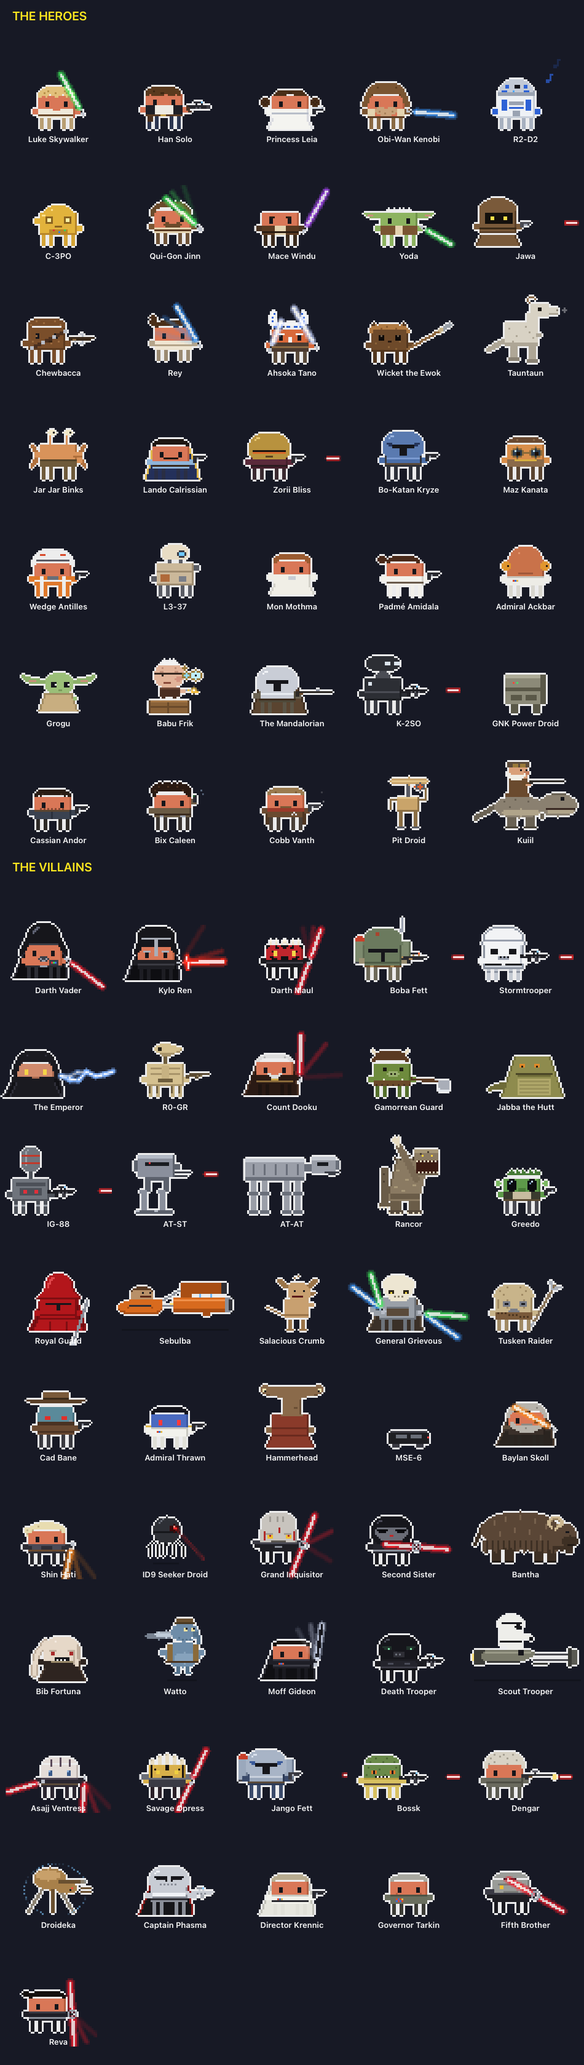
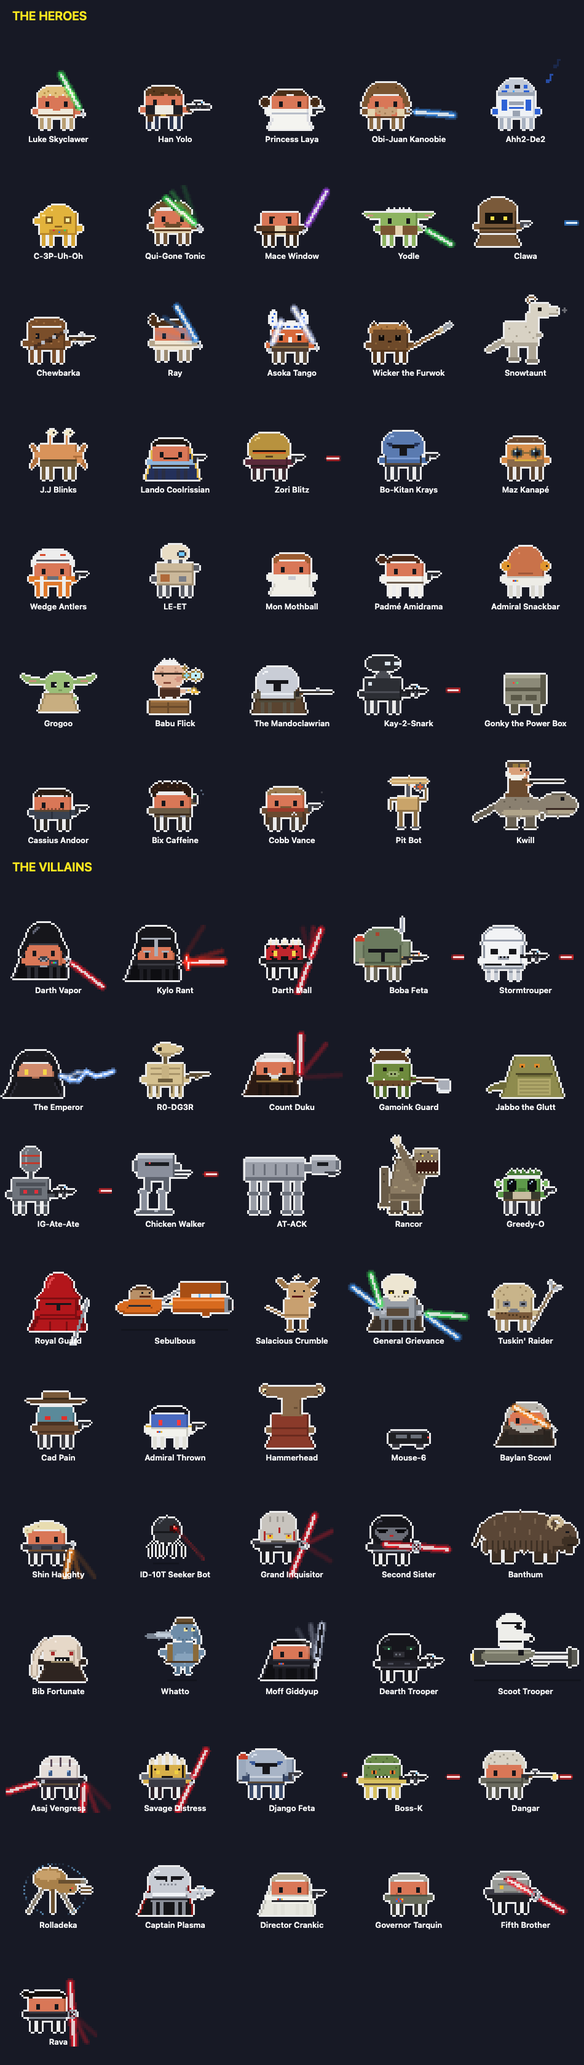
docs: re-render every picture and rewrite the README with the parody names
Rosters, place sheets, fight lines (Star Claws now from RenderDocs too),
the hover card, the screen saver, the cantina window, all four social
previews and the icon, from the renamed and redrawn code. The Night
Beacon on the social preview moves under the title, and its tagline
shrinks to fit. The README and llms.txt use the new names, and the
footer calls it an independent parody fan project.

Changed region(s): [[0.1221, 0.4026, 0.1526, 0.4336], [0.0611, 0.4026, 0.0916, 0.4336]]

diff --git a/Tools/MakeSocial/main.swift b/Tools/MakeSocial/main.swift
@@ -4,7 +4,7 @@ import CoreText
 // Renders docs/social-preview.png (1280×640, GitHub → Settings → Social preview): a comic cover in three slanted
 // panels, one per universe, each with a fight in full swing, drawn with the app's own sprite and fight-effect code:
 // Luke and Vader's sabers locked under the stars, Thor and Loki trading lightning and magic, Batman against the
-// Joker under the Bat-Signal. CLAWD CLASH runs across all three, coloured by the panel each part is in, with a sound
+// Joker under the Night Beacon. CLAWD CLASH runs across all three, coloured by the panel each part is in, with a sound
 // effect in each panel and the tagline in a caption box.
 //   swiftc Sources/App/{Pixel,Characters,Fights,Persona,Theme,Pose,Locations,Cast,Habits,Icon,Rides}.swift \
 //          Sources/App/Universes/**/*.swift Sources/Shared/*.swift Tools/MakeSocial/main.swift -o build/makesocial \
@@ -53,15 +53,19 @@ func halftone(_ r: CGRect, color: CGColor, cell: CGFloat, dot: (CGPoint) -> CGFl
     ctx.setFillColor(color); ctx.fillPath()
 }
 
-/// The bat emblem, `w` wide, centred on `c`.
-func bat(_ c: CGPoint, width w: CGFloat) -> CGPath {
-    let half: [(CGFloat, CGFloat)] = [(0, 0.10), (0.05, 0.13), (0.075, 0.27), (0.11, 0.12), (0.19, 0.12), (0.30, 0.21), (0.55, 0.29),
-                                      (0.84, 0.25), (1.0, 0.08), (0.88, 0.06), (0.80, -0.06), (0.70, -0.03), (0.60, -0.16), (0.48, -0.11),
-                                      (0.37, -0.26), (0.25, -0.17), (0.11, -0.32), (0, -0.22)]
-    let p = CGMutablePath()
-    p.addLines(between: half.map { CGPoint(x: c.x + $0.0 * w / 2, y: c.y + $0.1 * w / 2) }
-                        + half.reversed().dropFirst().dropLast().map { CGPoint(x: c.x - $0.0 * w / 2, y: c.y + $0.1 * w / 2) })
-    p.closeSubpath()
+/// A claw mark, `w` wide, centred on `c`: three slashes leaning right, tapered at both ends.
+func clawMark(_ c: CGPoint, width w: CGFloat) -> CGPath {
+    let p = CGMutablePath(), h = w * 0.62, gap = w * 0.3, thick = w * 0.1
+    for i in -1...1 {
+        let x = c.x + CGFloat(i) * gap
+        let top = CGPoint(x: x + h * 0.28, y: c.y + h / 2), bottom = CGPoint(x: x - h * 0.28, y: c.y - h / 2)
+        let mid = CGPoint(x: (top.x + bottom.x) / 2, y: (top.y + bottom.y) / 2)
+        p.move(to: top)
+        p.addLine(to: CGPoint(x: mid.x + thick / 2, y: mid.y))
+        p.addLine(to: bottom)
+        p.addLine(to: CGPoint(x: mid.x - thick / 2, y: mid.y))
+        p.closeSubpath()
+    }
     return p
 }
 
@@ -93,12 +97,12 @@ for i in 0..<3 {
         }
     }
     if i == 2 {
-        let signal = CGPoint(x: 1150, y: 560)
+        let signal = CGPoint(x: 1192, y: 392)   // under the name, over the fight
         ctx.setFillColor(hex(0xFFE36B, 0.18))
-        ctx.move(to: CGPoint(x: 1240, y: 0)); ctx.addLine(to: CGPoint(x: signal.x - 70, y: signal.y)); ctx.addLine(to: CGPoint(x: signal.x + 70, y: signal.y))
+        ctx.move(to: CGPoint(x: 1240, y: 0)); ctx.addLine(to: CGPoint(x: signal.x - 58, y: signal.y)); ctx.addLine(to: CGPoint(x: signal.x + 58, y: signal.y))
         ctx.closePath(); ctx.fillPath()
-        ctx.setFillColor(hex(0xFFE36B, 0.92)); ctx.fillEllipse(in: CGRect(x: signal.x - 70, y: signal.y - 48, width: 140, height: 96))
-        ctx.addPath(bat(signal, width: 116)); ctx.setFillColor(inkColor); ctx.fillPath()
+        ctx.setFillColor(hex(0xFFE36B, 0.92)); ctx.fillEllipse(in: CGRect(x: signal.x - 58, y: signal.y - 40, width: 116, height: 80))
+        ctx.addPath(clawMark(signal, width: 92)); ctx.setFillColor(inkColor); ctx.fillPath()
     }
     // The ground each fight stands on.
     ctx.setFillColor(hex(floors[i])); ctx.fill(CGRect(x: 0, y: 0, width: W, height: ground))
@@ -213,8 +217,8 @@ burst(CGPoint(x: 205, y: 352), r: 50, color: 0xFFE14D, seed: 11)
 word("VWOOM!", at: CGPoint(x: 205, y: 352), width: 100, height: 42, angle: 0.12, depth: 4, faces: [(0xFFFFFF, 0xFF6A5A)])
 burst(CGPoint(x: 640, y: 358), r: 54, color: 0x7FD0FF, seed: 31)
 word("KRAKOOM!", at: CGPoint(x: 640, y: 358), width: 120, height: 42, angle: -0.1, depth: 4, faces: [(0xFFF6B0, 0xFFC21A)])
-burst(CGPoint(x: 1070, y: 352), r: 48, color: 0xFF5A8A, seed: 51)
-word("BLAM!", at: CGPoint(x: 1070, y: 352), width: 92, height: 42, angle: 0.1, depth: 4, faces: [(0xFFFFFF, 0xC8F06A)])
+burst(CGPoint(x: 1040, y: 352), r: 48, color: 0xFF5A8A, seed: 51)
+word("BLAM!", at: CGPoint(x: 1040, y: 352), width: 92, height: 42, angle: 0.1, depth: 4, faces: [(0xFFFFFF, 0xC8F06A)])
 
 // The name, across all three panels.
 word("CLAWD CLASH", at: CGPoint(x: 640, y: 522), width: 1060, height: 138, angle: 0.035, depth: 12,
@@ -229,9 +233,15 @@ for i in 1...2 {
 }
 
 // The tagline in a caption box, along the bottom.
-let tagline = "Your AI coding sessions as a pixel-art Star Wars, Marvel or DC battle"
-let font = NSFont(name: "Futura-Bold", size: 25) ?? .boldSystemFont(ofSize: 25)
-let text = NSAttributedString(string: tagline.uppercased(), attributes: [.font: font, .foregroundColor: NSColor(cgColor: inkColor)!, .kern: 1])
+let tagline = "Your AI coding sessions as a pixel-art Star Claws, Clawvel or Detective Claws battle"
+/// The tagline at the largest size (up to 25 pt) that fits the cover with a margin.
+func taglineText(_ size: CGFloat) -> NSAttributedString {
+    let font = NSFont(name: "Futura-Bold", size: size) ?? .boldSystemFont(ofSize: size)
+    return NSAttributedString(string: tagline.uppercased(), attributes: [.font: font, .foregroundColor: NSColor(cgColor: inkColor)!, .kern: 1])
+}
+var tagSize: CGFloat = 25
+while tagSize > 12 && taglineText(tagSize).size().width > W - 140 { tagSize -= 1 }
+let text = taglineText(tagSize)
 let ts = text.size()
 let box = CGRect(x: (W - ts.width) / 2 - 22, y: 26, width: ts.width + 44, height: ts.height + 18)
 ctx.saveGState()

diff --git a/Tools/RenderDocs/main.swift b/Tools/RenderDocs/main.swift
@@ -1,6 +1,7 @@
 import AppKit
 
 // Renders the README's roster and locations images with the app's own sprite code.
+// Sessions are labelled with their character's name (as the app does with no project), agents with their task.
 //   swiftc -swift-version 5 Sources/App/{Pixel,Characters,Fights,Persona,Theme,Pose,Locations,Cast,Habits,Icon,Rides}.swift \
 //          Sources/App/Universes/**/*.swift Sources/Shared/*.swift \
 //          Tools/RenderDocs/main.swift -o build/renderdocs && build/renderdocs docs
@@ -91,6 +92,17 @@ let marvelLineup: [[Extra]] = [
      Extra(who: .villain(.redSkull), leader: true, label: "Red Skull", x: 352, facing: -1, role: .shoot(offset: 0))],
     [Extra(who: .hero(.groot), leader: false, label: "Run the test suite", x: 388, facing: 1, role: .cheer)],
 ]
+let starWarsLineup: [[Extra]] = [
+    [Extra(who: .villain(SWVillain.boba), leader: true, label: "", x: 30, facing: 1, role: .shoot(offset: 0)),
+     Extra(who: .hero(SWHero.han), leader: false, label: "Review Overlay.swift", x: 92, facing: -1, role: .shoot(offset: blasterPeriod / 2))],
+    [Extra(who: .hero(SWHero.leia), leader: false, label: "Run the test suite", x: 132, facing: 1, role: .shoot(offset: 0)),
+     Extra(who: .villain(SWVillain.trooper), leader: false, label: "Write changelog", x: 182, facing: -1, role: .shoot(offset: blasterPeriod / 2))],
+    [Extra(who: .hero(SWHero.luke), leader: false, label: "Find hook events", x: 214, facing: 1, role: .duel),
+     Extra(who: .villain(SWVillain.maul), leader: false, label: "Audit permissions", x: 244, facing: -1, role: .duel)],
+    [Extra(who: .hero(SWHero.obiwan), leader: true, label: "", x: 290, facing: 1, role: .duel),
+     Extra(who: .villain(SWVillain.vader), leader: true, label: "", x: 347, facing: -1, role: .duel)],
+    [Extra(who: .hero(SWHero.r2d2), leader: false, label: "Plan the refactor", x: 388, facing: 1, role: .cheer)],
+]
 let dcLineup: [[Extra]] = [
     [Extra(who: .villain(DCVillain.darkseid), leader: true, label: "Darkseid", x: 30, facing: 1, role: .zap),
      Extra(who: .hero(DCHero.superman), leader: true, label: "Superman", x: 98, facing: -1, role: .hit, up: 10)],
@@ -117,7 +129,7 @@ let desktop = canvas(2600, 400) { ctx in
                                            height: CGFloat(Sprite.height) * S * k))
         // Its label above the head, as the app boxes it: sessions dark grey, agents dark blue.
         let font = e.leader ? NSFont.monospacedSystemFont(ofSize: 20, weight: .bold) : NSFont.monospacedSystemFont(ofSize: 17, weight: .semibold)
-        let text = NSAttributedString(string: e.label, attributes: [.font: font, .foregroundColor: NSColor.white])
+        let text = NSAttributedString(string: e.leader ? e.who.name : e.label, attributes: [.font: font, .foregroundColor: NSColor.white])
         let ts = text.size()
         let top = y + CGFloat(Sprite.height - e.who.drawnTop()) * S * k + (e.leader ? 16 : 10)
         var box = CGRect(x: CGFloat(e.x) * S - ts.width / 2 - 10, y: top, width: ts.width + 20, height: ts.height + 8)
@@ -153,6 +165,7 @@ let desktop = canvas(2600, 400) { ctx in
 save(desktop, file)
 print("wrote \(out)/\(file)")
 }
+desktop(starWarsLineup, file: "desktop-starwars.png")
 desktop(marvelLineup, file: "desktop-marvel.png")
 desktop(dcLineup, file: "desktop-dc.png")
 
@@ -242,15 +255,15 @@ let social = canvas(1280, 640) { ctx in
 save(social, file)
 }
 // Clawd Clash's own (social-preview.png) is a comic cover of its own: Tools/MakeSocial.
-socialPreview(title: "CLAWD WARS", subtitle: "Your Claude Code sessions as a pixel-art Star Wars battle on your desktop",
+socialPreview(title: "CLAWD WARS", subtitle: "Your Claude Code sessions as a pixel-art Star Claws battle on your desktop",
               groups: [[.hero(SWHero.luke), .hero(SWHero.han), .hero(SWHero.leia), .hero(SWHero.yoda),
                         .villain(SWVillain.vader), .villain(SWVillain.boba), .villain(SWVillain.kylo), .villain(SWVillain.trooper)]],
               file: "social-preview-starwars.png")
-socialPreview(title: "AVENGERS: CLAWD WARS", subtitle: "Your Claude Code sessions as a pixel-art Marvel battle on your desktop",
+socialPreview(title: "CLAWVENGERS: CLAWD WARS", subtitle: "Your Claude Code sessions as a pixel-art Clawvel battle on your desktop",
               groups: [[.hero(MarvelHero.thor), .hero(MarvelHero.spiderMan), .hero(MarvelHero.captainAmerica), .hero(MarvelHero.ironMan),
                         .villain(MarvelVillain.thanos), .villain(MarvelVillain.loki), .villain(MarvelVillain.greenGoblin), .villain(MarvelVillain.venom)]],
               file: "social-preview-marvel.png")
-socialPreview(title: "JUSTICE LEAGUE: CLAWD WARS", subtitle: "Your Claude Code sessions as a pixel-art DC battle on your desktop",
+socialPreview(title: "CLAWSTICE LEAGUE: CLAWD WARS", subtitle: "Your Claude Code sessions as a pixel-art Detective Claws battle on your desktop",
               groups: [[.hero(DCHero.superman), .hero(DCHero.batman), .hero(DCHero.wonderWoman), .hero(DCHero.flash),
                         .villain(DCVillain.joker), .villain(DCVillain.lexLuthor), .villain(DCVillain.darkseid), .villain(DCVillain.harleyQuinn)]],
               file: "social-preview-dc.png")

diff --git a/Tools/MakeIcon/main.swift b/Tools/MakeIcon/main.swift
@@ -55,19 +55,23 @@ func halftone(_ r: CGRect, color: CGColor, cell: CGFloat, dot: (CGPoint) -> CGFl
     ctx.setFillColor(color); ctx.fillPath()
 }
 
-/// The bat emblem, `w` wide, centred on `c`: the right half from between the ears round the wing to the tail, mirrored.
-func bat(_ c: CGPoint, width w: CGFloat) -> CGPath {
-    let half: [(CGFloat, CGFloat)] = [(0, 0.10), (0.05, 0.13), (0.075, 0.27), (0.11, 0.12), (0.19, 0.12), (0.30, 0.21), (0.55, 0.29),
-                                      (0.84, 0.25), (1.0, 0.08), (0.88, 0.06), (0.80, -0.06), (0.70, -0.03), (0.60, -0.16), (0.48, -0.11),
-                                      (0.37, -0.26), (0.25, -0.17), (0.11, -0.32), (0, -0.22)]
-    let p = CGMutablePath()
-    p.addLines(between: half.map { CGPoint(x: c.x + $0.0 * w / 2, y: c.y + $0.1 * w / 2) }
-                        + half.reversed().dropFirst().dropLast().map { CGPoint(x: c.x - $0.0 * w / 2, y: c.y + $0.1 * w / 2) })
-    p.closeSubpath()
+/// A claw mark, `w` wide, centred on `c`: three slashes leaning right, tapered at both ends.
+func clawMark(_ c: CGPoint, width w: CGFloat) -> CGPath {
+    let p = CGMutablePath(), h = w * 0.62, gap = w * 0.3, thick = w * 0.1
+    for i in -1...1 {
+        let x = c.x + CGFloat(i) * gap
+        let top = CGPoint(x: x + h * 0.28, y: c.y + h / 2), bottom = CGPoint(x: x - h * 0.28, y: c.y - h / 2)
+        let mid = CGPoint(x: (top.x + bottom.x) / 2, y: (top.y + bottom.y) / 2)
+        p.move(to: top)
+        p.addLine(to: CGPoint(x: mid.x + thick / 2, y: mid.y))
+        p.addLine(to: bottom)
+        p.addLine(to: CGPoint(x: mid.x - thick / 2, y: mid.y))
+        p.closeSubpath()
+    }
     return p
 }
 
-// Each panel's sky: Sith red with stars, Marvel red into blue, Gotham's night blue under the Bat-Signal; rays from the
+// Each panel's sky: Sith red with stars, Marvel red into blue, Gotham's night blue under the Night Beacon; rays from the
 // middle and halftone dots, heavier towards the bottom.
 let skies: [(UInt32, UInt32)] = [(0x6E0C1A, 0x1A0610), (0xB81A2A, 0x0E2A6E), (0x2B3F7A, 0x0A1028)]
 let middle = CGPoint(x: 512, y: 520)
@@ -96,7 +100,7 @@ for i in 0..<3 {
     if i == 2 {
         let signal = CGPoint(x: 800, y: 800)
         ctx.setFillColor(hex(0xFFE36B, 0.9)); ctx.fillEllipse(in: CGRect(x: signal.x - 85, y: signal.y - 60, width: 170, height: 120))
-        ctx.addPath(bat(signal, width: 140)); ctx.setFillColor(inkColor); ctx.fillPath()
+        ctx.addPath(clawMark(signal, width: 140)); ctx.setFillColor(inkColor); ctx.fillPath()
     }
     ctx.restoreGState()
 }

diff --git a/README.md b/README.md
@@ -1,11 +1,11 @@
 <p align="center">
-  <img src="Resources/AppIcon.png" width="180" alt="Clawd Clash icon: a comic cover in three panels, Star Wars, Marvel and DC, with CLAWD CLASH across them, Spider-Man hanging on his web, Darth Vader raising his saber and Batman under the Bat-Signal">
+  <img src="Resources/AppIcon.png" width="180" alt="Clawd Clash icon: a comic cover in three panels, one per universe, with CLAWD CLASH across them, Spider-Clawd hanging on his web, Darth Vapor raising his saber and Batclaw under the Night Beacon">
 </p>
 
 <h1 align="center">Clawd Clash</h1>
 
 <p align="center">
-  <b>Your Claude Code, Codex, Qwen Code, Gemini CLI and GitHub Copilot CLI sessions, as a pixel-art Star Wars, Marvel or DC battle on your desktop.</b><br>
+  <b>Your Claude Code, Codex, Qwen Code, Gemini CLI and GitHub Copilot CLI sessions, as a pixel-art Star Claws, Clawvel or Detective Claws battle on your desktop.</b><br>
   Every session is a hero or a villain, every subagent joins in, and they fight while they work.
 </p>
 
@@ -18,12 +18,12 @@
 </p>
 
 <p align="center">
-  <img src="docs/social-preview.png" alt="A comic cover in three panels: Luke and Vader duelling, Thor against Loki, Batman against the Joker, under CLAWD CLASH" width="760">
+  <img src="docs/social-preview.png" alt="A comic cover in three panels: Luke Skyclawer and Darth Vapor duelling, Thorr against Lokee, Batclaw against the Jester, under CLAWD CLASH" width="760">
 </p>
 
-Clawd Clash is one app with three universes: **Star Wars** (formerly [Clawd Wars](https://github.com/rodclemen/clawd-wars)), **Marvel** (formerly [Avengers: Clawd Wars](https://github.com/rodclemen/avengers-clawd-wars)) and **DC** (formerly [Justice League: Clawd Wars](https://github.com/rodclemen/justice-league-clawd-wars)). Pick one in Settings; a scene never mixes them. Those three pages show each universe on its own; this one is the app.
+Clawd Clash is one app with three universes: **Star Claws** (formerly [Clawd Wars](https://github.com/rodclemen/clawd-wars)), **Clawvel** (formerly [Clawvengers: Clawd Wars](https://github.com/rodclemen/avengers-clawd-wars)) and **Detective Claws** (formerly [Clawstice League: Clawd Wars](https://github.com/rodclemen/justice-league-clawd-wars)). Pick one in Settings; a scene never mixes them. Those three pages show each universe on its own; this one is the app.
 
-| Star Wars | Marvel | DC |
+| Star Claws | Clawvel | Detective Claws |
 |---|---|---|
 | https://github.com/user-attachments/assets/c0b65192-c2ae-4b2e-9c23-d50a2c157aef | https://github.com/user-attachments/assets/1f70859b-9230-4afb-9c8d-1121822be8e7 | https://github.com/user-attachments/assets/0396abbc-5ddd-4345-8e27-f33c2e79d616 |
 
@@ -38,7 +38,7 @@ Clawd Clash is one app with three universes: **Star Wars** (formerly [Clawd Wars
 - [Window mode and the screen saver](#window-mode-and-the-screen-saver)
 - [The little things](#the-little-things)
 - [Install](#install)
-- [Coming from Clawd Wars, Avengers or Justice League](#coming-from-clawd-wars-avengers-or-justice-league)
+- [Coming from Clawd Wars, Clawvengers or Clawstice League](#coming-from-clawd-wars-clawvengers-or-clawstice-league)
 - [How it works](#how-it-works)
 - [Uninstall](#uninstall)
 - [Contributing](#contributing)
@@ -48,47 +48,47 @@ Clawd Clash is one app with three universes: **Star Wars** (formerly [Clawd Wars
 
 You run Claude Code in three terminals. One is thinking, one is waiting for your permission, one finished ten minutes ago and you didn't notice. Clawd Clash tells you at a glance, without switching windows.
 
-- **Working?** Your Claude fights: a lightsaber, a shield, repulsors, heat vision, a spell.
+- **Working?** Your Claude fights: a laser sword, a shield, repulsors, heat vision, a spell.
 - **Thinking?** A thought bubble.
 - **Needs you?** A red `!`, and if you ignore it for a minute, it starts jumping up and down. It keeps asking until you answer; press Esc instead and it stands down.
-- **Done and idle?** It stops fighting and passes the time with habits of its own, and most characters have a signature move (R2-D2 plays Leia's message, Han spins his blaster, Iron Man flips his faceplate up, Thanos snaps, Batman's batarang loops back to his hand). After a couple of minutes it sits down; after five it's asleep (zZz).
+- **Done and idle?** It stops fighting and passes the time with habits of its own, and most characters have a signature move (Ahh2-De2 plays Princess Laya's message, Han Yolo spins his blaster, Iron Clawd flips his faceplate up, Thanoz snaps, Batclaw's clawarang loops back to his hand). After a couple of minutes it sits down; after five it's asleep (zZz).
 - **Spawned subagents?** They walk (or fly, or swing) in one by one, each labelled with what it's doing, and leave when they finish.
 - **Hover** any character for the details; **click** it to jump straight to that session's terminal or editor tab.
 
 <p align="center">
-  <img src="docs/desktop-starwars.png" alt="Star Wars sessions and agents fighting along the bottom of the screen"><br>
-  <img src="docs/desktop-marvel.png" alt="Marvel sessions and agents fighting along the bottom of the screen"><br>
-  <img src="docs/desktop-dc.png" alt="DC sessions and agents fighting along the bottom of the screen">
+  <img src="docs/desktop-starwars.png" alt="Star Claws sessions and agents fighting along the bottom of the screen"><br>
+  <img src="docs/desktop-marvel.png" alt="Clawvel sessions and agents fighting along the bottom of the screen"><br>
+  <img src="docs/desktop-dc.png" alt="Detective Claws sessions and agents fighting along the bottom of the screen">
 </p>
 
 ## Three universes
 
-Choose in **Settings… → Universe**: **Star Wars**, **Marvel**, **DC** or **Random**. Switching recasts everyone on screen (each character becomes the one in the same place in the other cast, on the same side), moves the scene to one of the new universe's places, and changes the menu bar icon (Vader's helmet, Captain America's shield or Superman's S). In the window, the whole window changes over with the new universe's transition. **Random** switches on its own every 1, 5, 10, 15, 30 or 60 minutes.
+Choose in **Settings… → Universe**: **Star Claws**, **Clawvel**, **Detective Claws** or **Random**. Switching recasts everyone on screen (each character becomes the one in the same place in the other cast, on the same side), moves the scene to one of the new universe's places, and changes the menu bar icon (Darth Vapor's helmet, Captain Ameriklaw's shield or Superb-Man's C-shield). In the window, the whole window changes over with the new universe's transition. **Random** switches on its own every 1, 5, 10, 15, 30 or 60 minutes.
 
-| | Star Wars | Marvel | DC |
+| | Star Claws | Clawvel | Detective Claws |
 |---|---|---|---|
 | Cast | 46 villains, 35 heroes | 88 villains, 105 heroes | 97 villains, 110 heroes |
-| Places | 22, from the Mos Eisley cantina to Hoth | 43, from Avengers Tower to Ta Lo | 43, from the Watchtower to the Hall of Doom |
-| Weapons | lightsabers, blasters, Force lightning | shields, hammers, claws, repulsors, webs, arrows, magic | fists, swords, heat vision, power rings, batarangs, arrows, magic |
-| Set pieces | Han and Greedo face off, and Han shoots first; the Falcon picks Han up | arch-enemies face off first; the Quinjet and the Milano pick people up; flyers take to the air and fight from there | arch-enemies face off first; the Javelin and the Batwing pick people up; the Bat-family swings on grapnel lines |
-| Sides | whoever came first keeps their side; Vader and Kylo never lead back to back | Claude Code plays the heroes when another AI runs | Claude Code plays the heroes when another AI runs |
+| Places | 22, from the Mos Easy Cantina to the Battle of Froth | 43, from Clawvengers Tower to Ta Loh | 43, from the Lookout to the Hall of Gloom |
+| Weapons | laser swords, blasters, dark lightning | shields, hammers, claws, repulsors, webs, arrows, magic | fists, swords, heat vision, power rings, clawarangs, arrows, magic |
+| Set pieces | Han Yolo and Greedy-O face off, and Han shoots first; the Millennial Falcon picks Han up | arch-enemies face off first; the Clawjet and the Milano pick people up; flyers take to the air and fight from there | arch-enemies face off first; the Lance and the Night-Glider pick people up; the Batclaw family swings on grapnel lines |
+| Sides | whoever came first keeps their side; Darth Vapor and Kylo Rant never lead back to back | Claude Code plays the heroes when another AI runs | Claude Code plays the heroes when another AI runs |
 
 <details>
-<summary><b>The Star Wars cast and places</b></summary>
-<p align="center"><img src="docs/roster-starwars.png" alt="All Star Wars characters" width="760"></p>
-<p align="center"><img src="docs/locations-starwars.png" alt="All Star Wars places" width="760"></p>
+<summary><b>The Star Claws cast and places</b></summary>
+<p align="center"><img src="docs/roster-starwars.png" alt="All Star Claws characters" width="760"></p>
+<p align="center"><img src="docs/locations-starwars.png" alt="All Star Claws places" width="760"></p>
 </details>
 
 <details>
-<summary><b>The Marvel cast and places</b></summary>
-<p align="center"><img src="docs/roster-marvel.png" alt="All Marvel characters" width="760"></p>
-<p align="center"><img src="docs/locations-marvel.png" alt="All Marvel places" width="760"></p>
+<summary><b>The Clawvel cast and places</b></summary>
+<p align="center"><img src="docs/roster-marvel.png" alt="All Clawvel characters" width="760"></p>
+<p align="center"><img src="docs/locations-marvel.png" alt="All Clawvel places" width="760"></p>
 </details>
 
 <details>
-<summary><b>The DC cast and places</b></summary>
-<p align="center"><img src="docs/roster-dc.png" alt="All DC characters" width="760"></p>
-<p align="center"><img src="docs/locations-dc.png" alt="All DC places" width="760"></p>
+<summary><b>The Detective Claws cast and places</b></summary>
+<p align="center"><img src="docs/roster-dc.png" alt="All Detective Claws characters" width="760"></p>
+<p align="center"><img src="docs/locations-dc.png" alt="All Detective Claws places" width="760"></p>
 </details>
 
 ## Window mode and the screen saver
@@ -96,10 +96,10 @@ Choose in **Settings… → Universe**: **Star Wars**, **Marvel**, **DC** or **R
 It opens in a window by default (switch to the desktop from the menu): the whole crew in a scene set where the first session's character belongs, with a card for every session: its project, what it's doing right now, your last prompt, its last reply, and its agents in a little tree.
 
 <p align="center">
-  <img src="docs/window-cantina.png" alt="Window mode in the Mos Eisley cantina" width="760">
+  <img src="docs/window-cantina.png" alt="Window mode in the Mos Easy Cantina: Han Yolo with Luke Skyclawer and Obi-Juan Kanoobie, Greedy-O on Codex" width="760">
 </p>
 
-**The screen saver** (Settings… → Screen Saver → Install…) shows the place full screen with the crew fighting across its floor, a card per session, name tags, a clock and a crawl of what happened lately, and moves somewhere new every 10 minutes: with a Star Wars wipe, or in Marvel with a comic-book transition (halftone dots, a SNIKT!, BAMF!, THWIP! or KAPOW! for whoever's on screen, panels, speed lines, "MEANWHILE…", and with Deadpool about, Deadpool peeling the page off the screen or surfing past on a chimichanga), or in DC with one of fifteen of its own (the Flash racing through the Speed Force, the Bat-Signal, Superman bursting through the page, the Lasso of Truth, a Joker card, Darkseid's Omega Beams and more). Its **Options…** button in System Settings picks the universe: the same as the app, Star Wars, Marvel, DC, or Random (a new pick on each trip).
+**The screen saver** (Settings… → Screen Saver → Install…) shows the place full screen with the crew fighting across its floor, a card per session, name tags, a clock and a crawl of what happened lately, and moves somewhere new every 10 minutes: with a Star Claws wipe, or in Clawvel with a comic-book transition (halftone dots, a SNIKT!, PHOOMF!, FWIP! or KAPOW! for whoever's on screen, panels, speed lines, "MEANWHILE…", and with Deadpond about, Deadpond peeling the page off the screen or surfing past on a chimichanga), or in Detective Claws with one of fifteen of its own (the Flare racing through the Speed Source, the Night Beacon, Superb-Man bursting through the page, the Lariat of Truth, a Jester card, Darksyde's Omicron Beams and more). Its **Options…** button in System Settings picks the universe: the same as the app, Star Claws, Clawvel, Detective Claws, or Random (a new pick on each trip).
 
 <p align="center">
   <img src="docs/screensaver.png" alt="The screen saver" width="760">
@@ -139,7 +139,7 @@ Needs macOS 13+ (Apple Silicon or Intel) and at least one of [Claude Code](https
 brew install --cask rodclemen/tap/clawd-clash
 ```
 
-`rodclemen/tap/clawd-wars`, `rodclemen/tap/avengers-clawd-wars` and `rodclemen/tap/justice-league-clawd-wars` install the same app, starting in Star Wars, Marvel or DC. Or download the zip from [Releases](https://github.com/rodclemen/clawd-clash/releases), unzip it and drag **Clawd Clash** to Applications.
+`rodclemen/tap/clawd-wars`, `rodclemen/tap/avengers-clawd-wars` and `rodclemen/tap/justice-league-clawd-wars` install the same app, starting in Star Claws, Clawvel or Detective Claws. Or download the zip from [Releases](https://github.com/rodclemen/clawd-clash/releases), unzip it and drag **Clawd Clash** to Applications.
 
 **From source** (no Xcode project, no packages, only Apple's free Command Line Tools):
 
@@ -156,9 +156,9 @@ Claude Code sessions that were already running pick up the hooks after a restart
 
 Clicking to jump to a session in Terminal or iTerm2 asks once for **Automation** permission; jumping to VS Code or Cursor asks once for **Accessibility** permission.
 
-## Coming from Clawd Wars, Avengers or Justice League
+## Coming from Clawd Wars, Clawvengers or Clawstice League
 
-Clawd Clash replaces Clawd Wars, Avengers: Clawd Wars and Justice League: Clawd Wars. Through Homebrew, upgrading the `clawd-wars`, `avengers-clawd-wars` or `justice-league-clawd-wars` cask installs Clawd Clash in that universe. Installed by hand, it starts in the universe of the app it finds, and when it connects an AI it swaps the old app's hook for its own, so the old app can go. Star Wars keeps Clawd Wars' characters for sessions that are already running.
+Clawd Clash replaces Clawd Wars, Clawvengers: Clawd Wars and Clawstice League: Clawd Wars. Through Homebrew, upgrading the `clawd-wars`, `avengers-clawd-wars` or `justice-league-clawd-wars` cask installs Clawd Clash in that universe. Installed by hand, it starts in the universe of the app it finds, and when it connects an AI it swaps the old app's hook for its own, so the old app can go. Star Wars keeps Clawd Wars' characters for sessions that are already running.
 
 ## How it works
 
@@ -190,4 +190,4 @@ Each universe lives in its own folder, `Sources/App/Universes/StarWars`, `.../Ma
 
 ---
 
-<p align="center"><sub>A fan project. Star Wars belongs to Lucasfilm/Disney, Marvel to Marvel/Disney, DC to DC Comics/Warner Bros.; Claude and Clawd belong to Anthropic.<br>Not affiliated with or endorsed by any of them.</sub></p>
+<p align="center"><sub>An independent parody fan project, not affiliated with or endorsed by Lucasfilm, Disney, Marvel, DC Comics or Warner Bros. Claude and Clawd belong to Anthropic.</sub></p>
